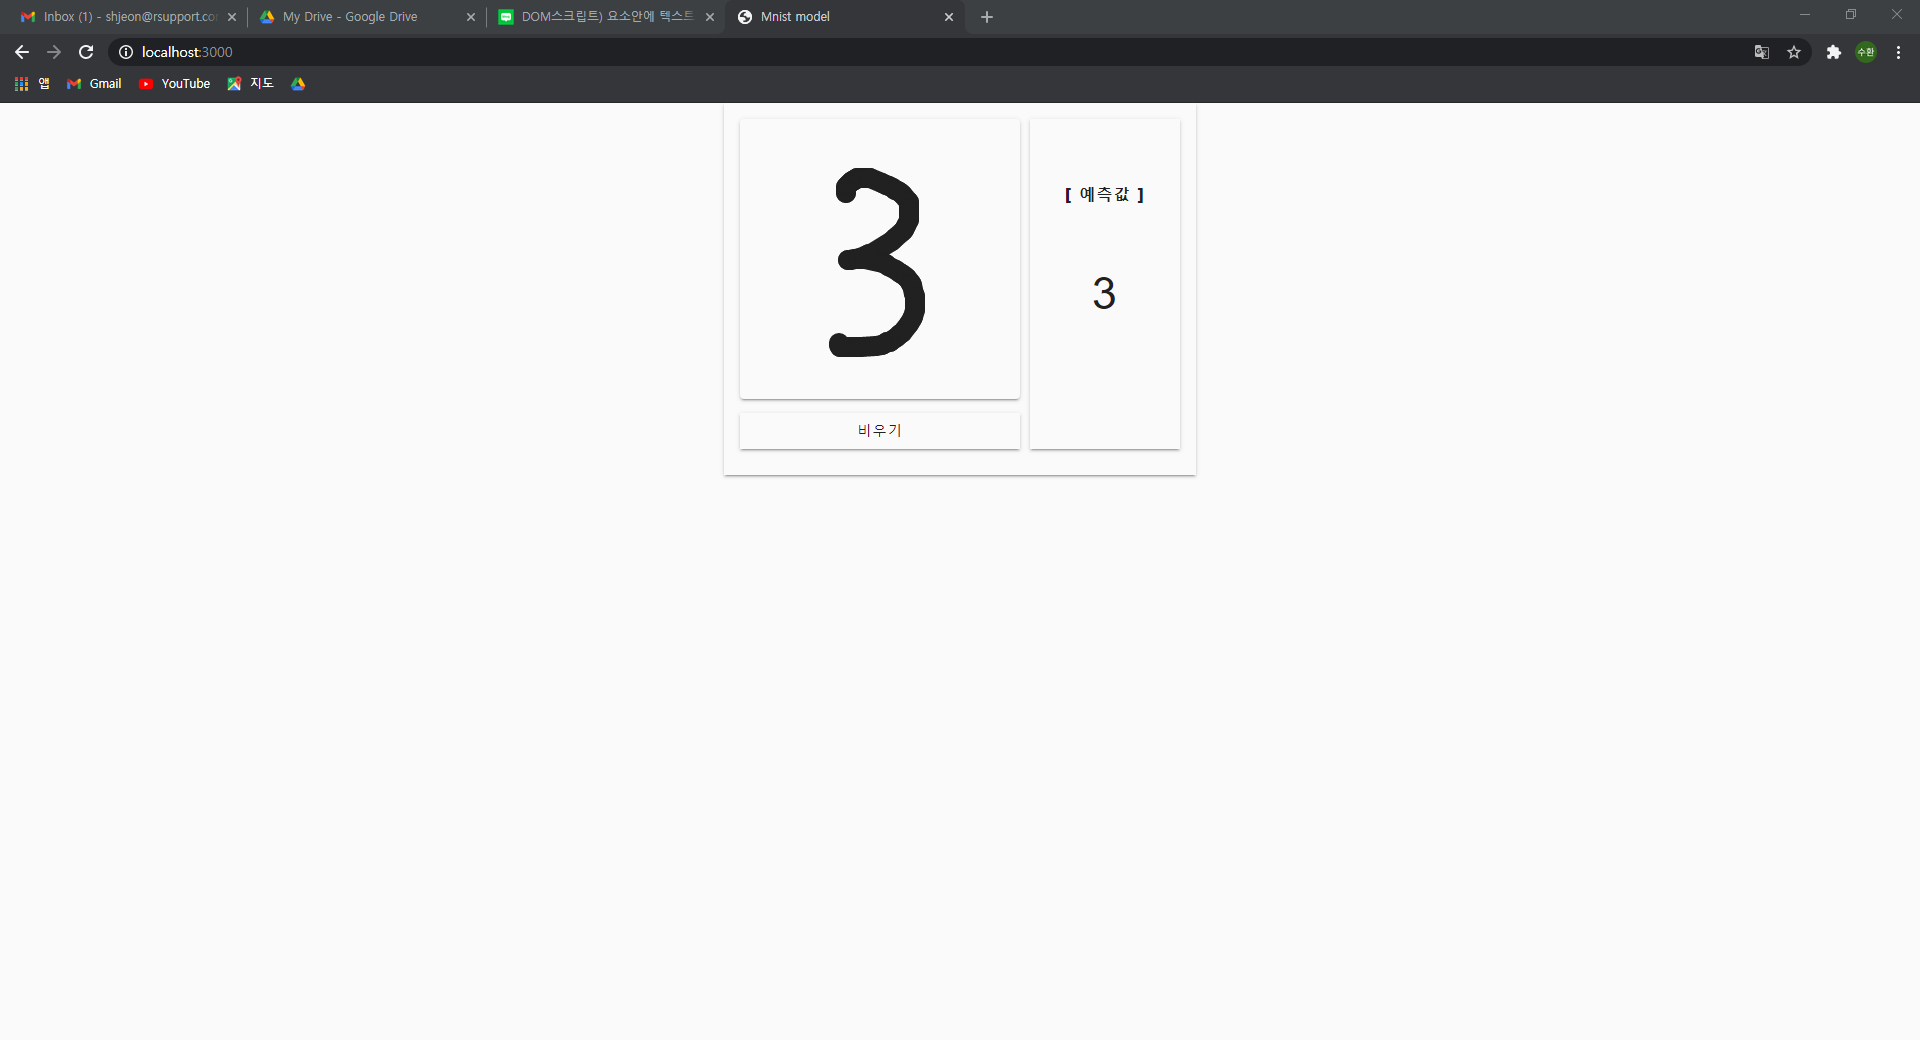
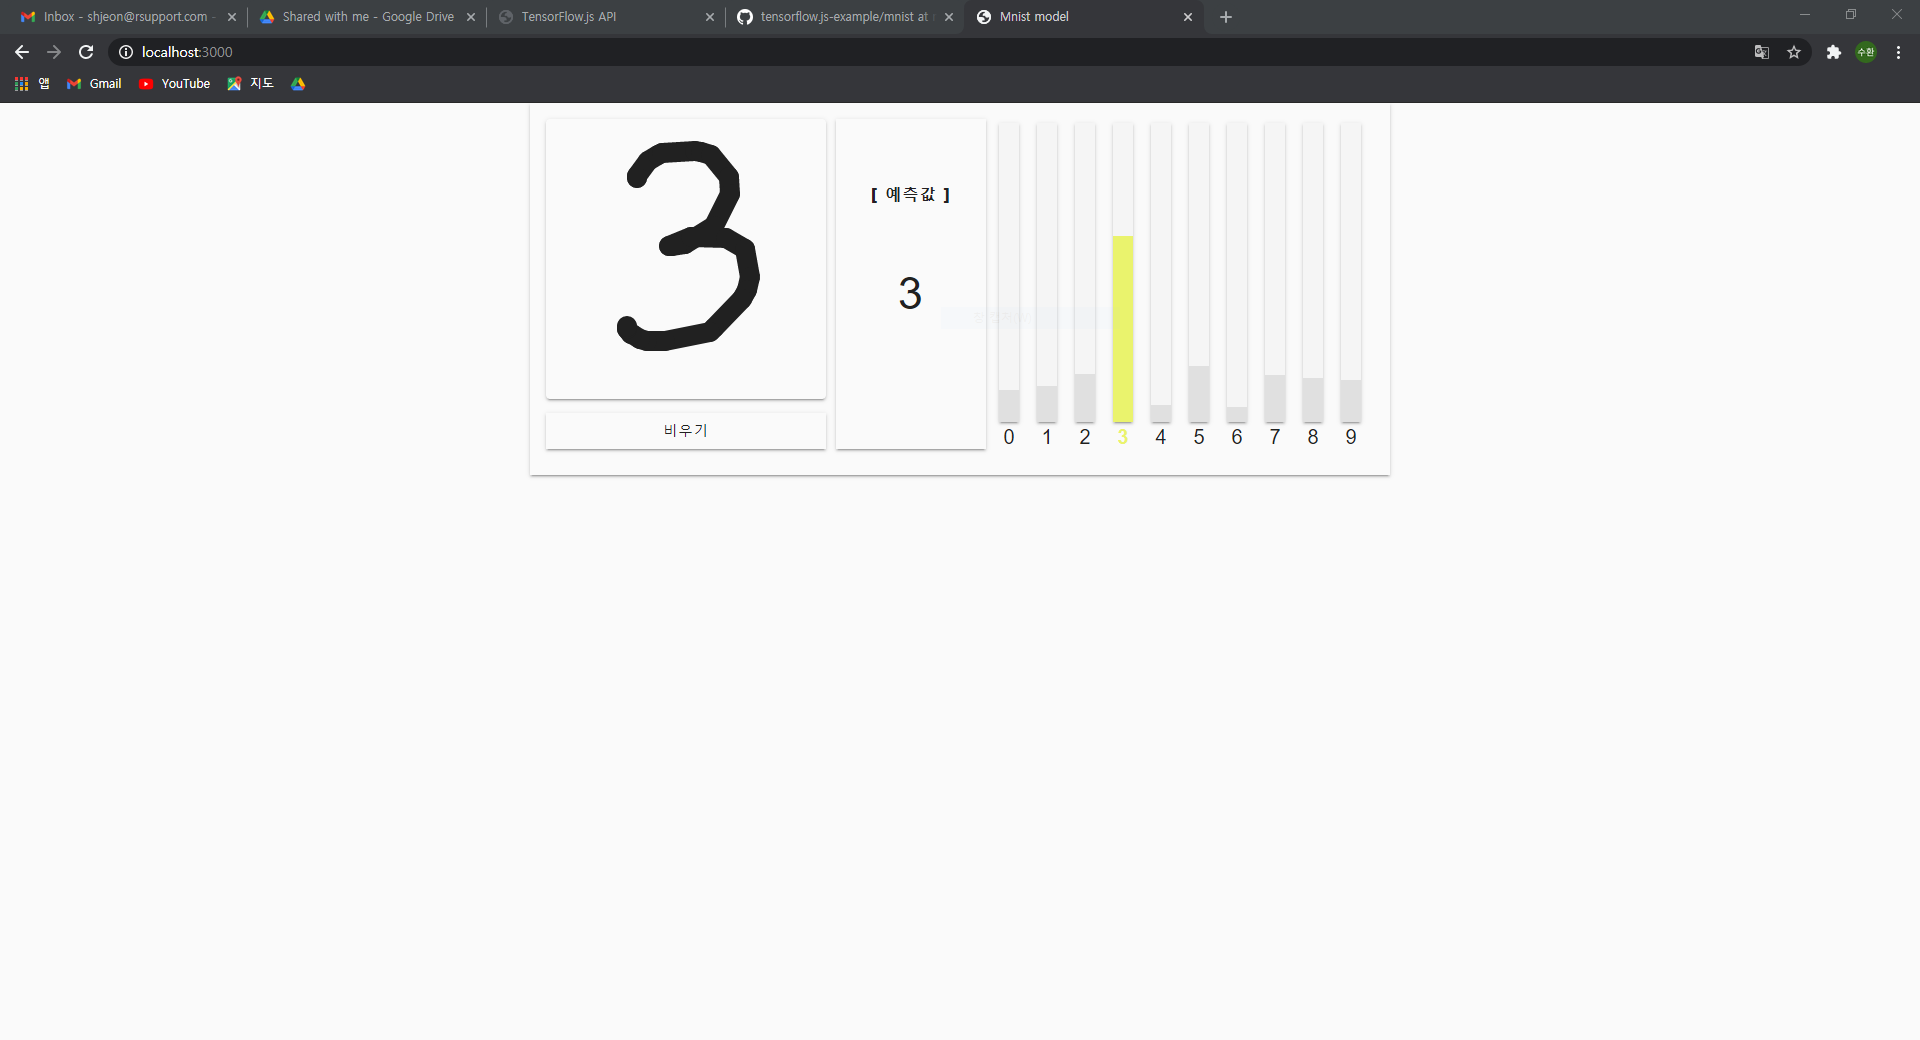
add image and value adjustment

diff --git a/mnist/script.js b/mnist/script.js
@@ -74,7 +74,7 @@ async function updatePrediction() {
 
     for (let i = 0; i < results.length; i++) {
         const element = document.getElementById(`prediction-${i}`);
-        element.children[0].children[0].style.height = `${results[i] * 100}%`;
+        element.children[0].children[0].style.height = `${results[i] * 175}%`;
         element.className =
             results[i] == result2 ?
             "prediction-col top-prediction" :
